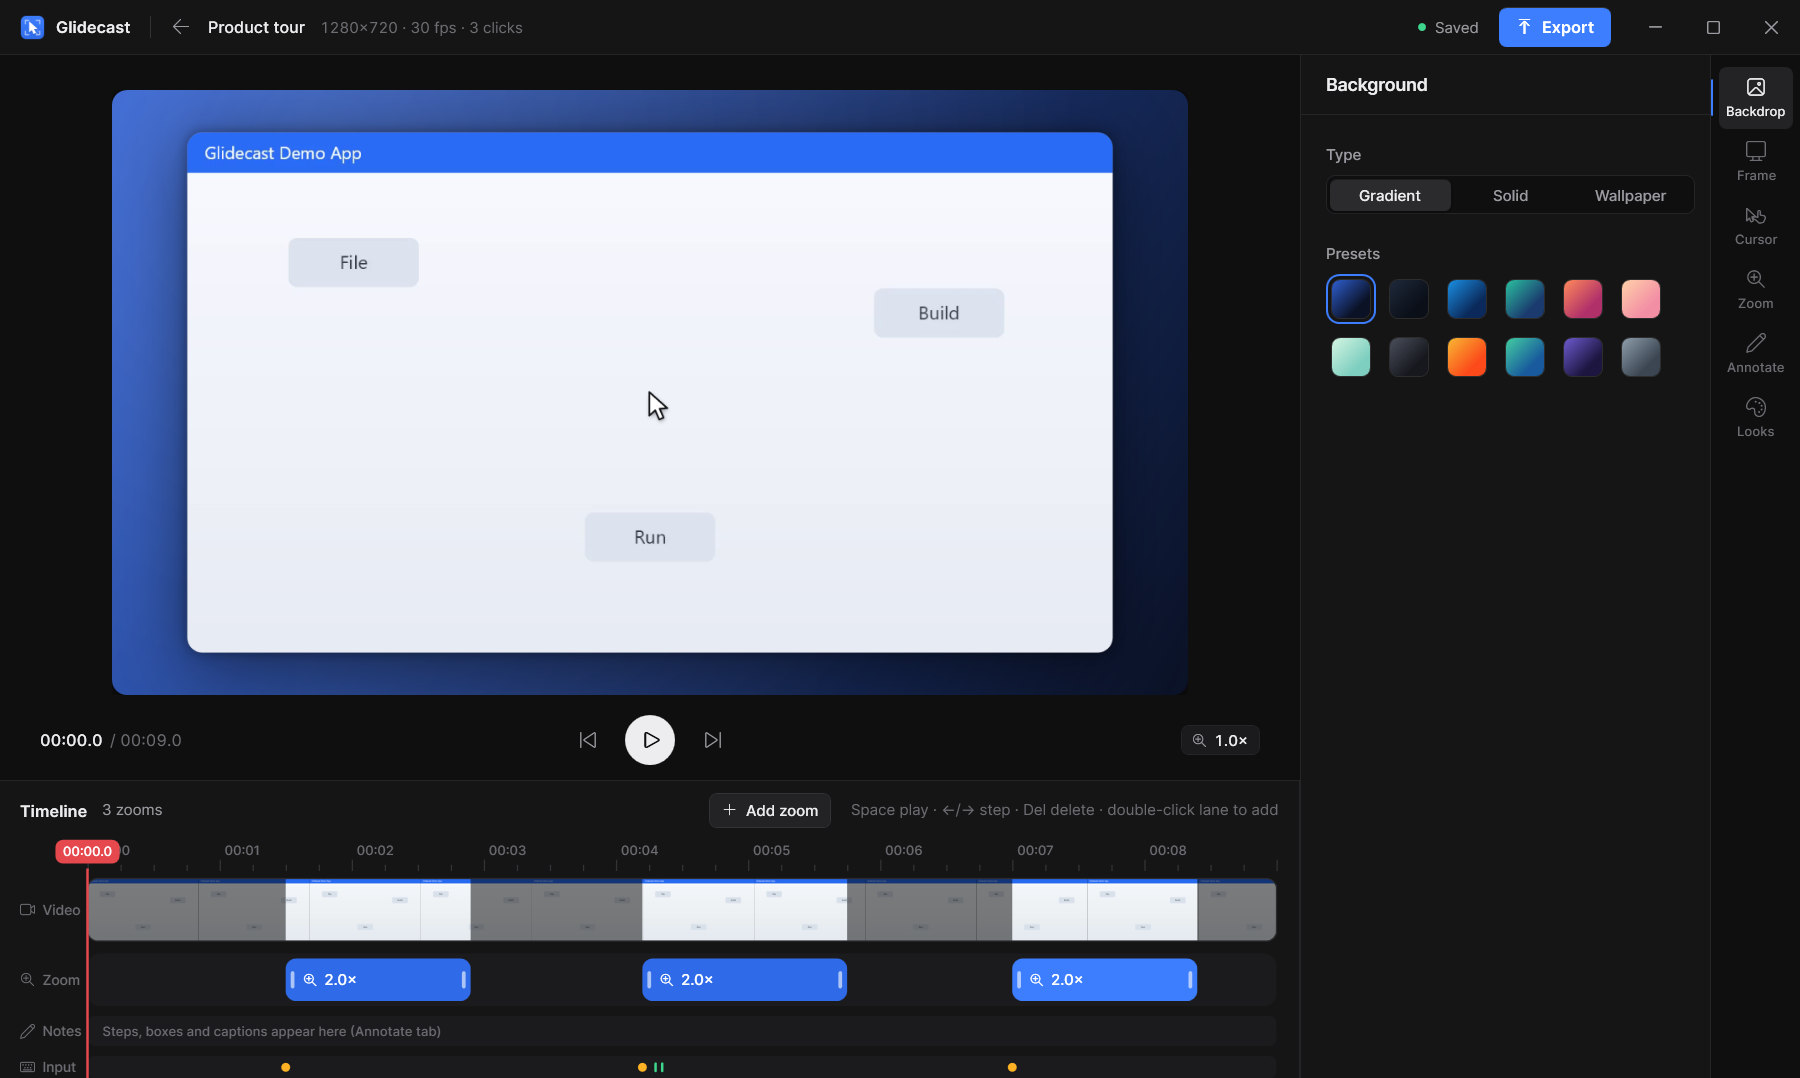
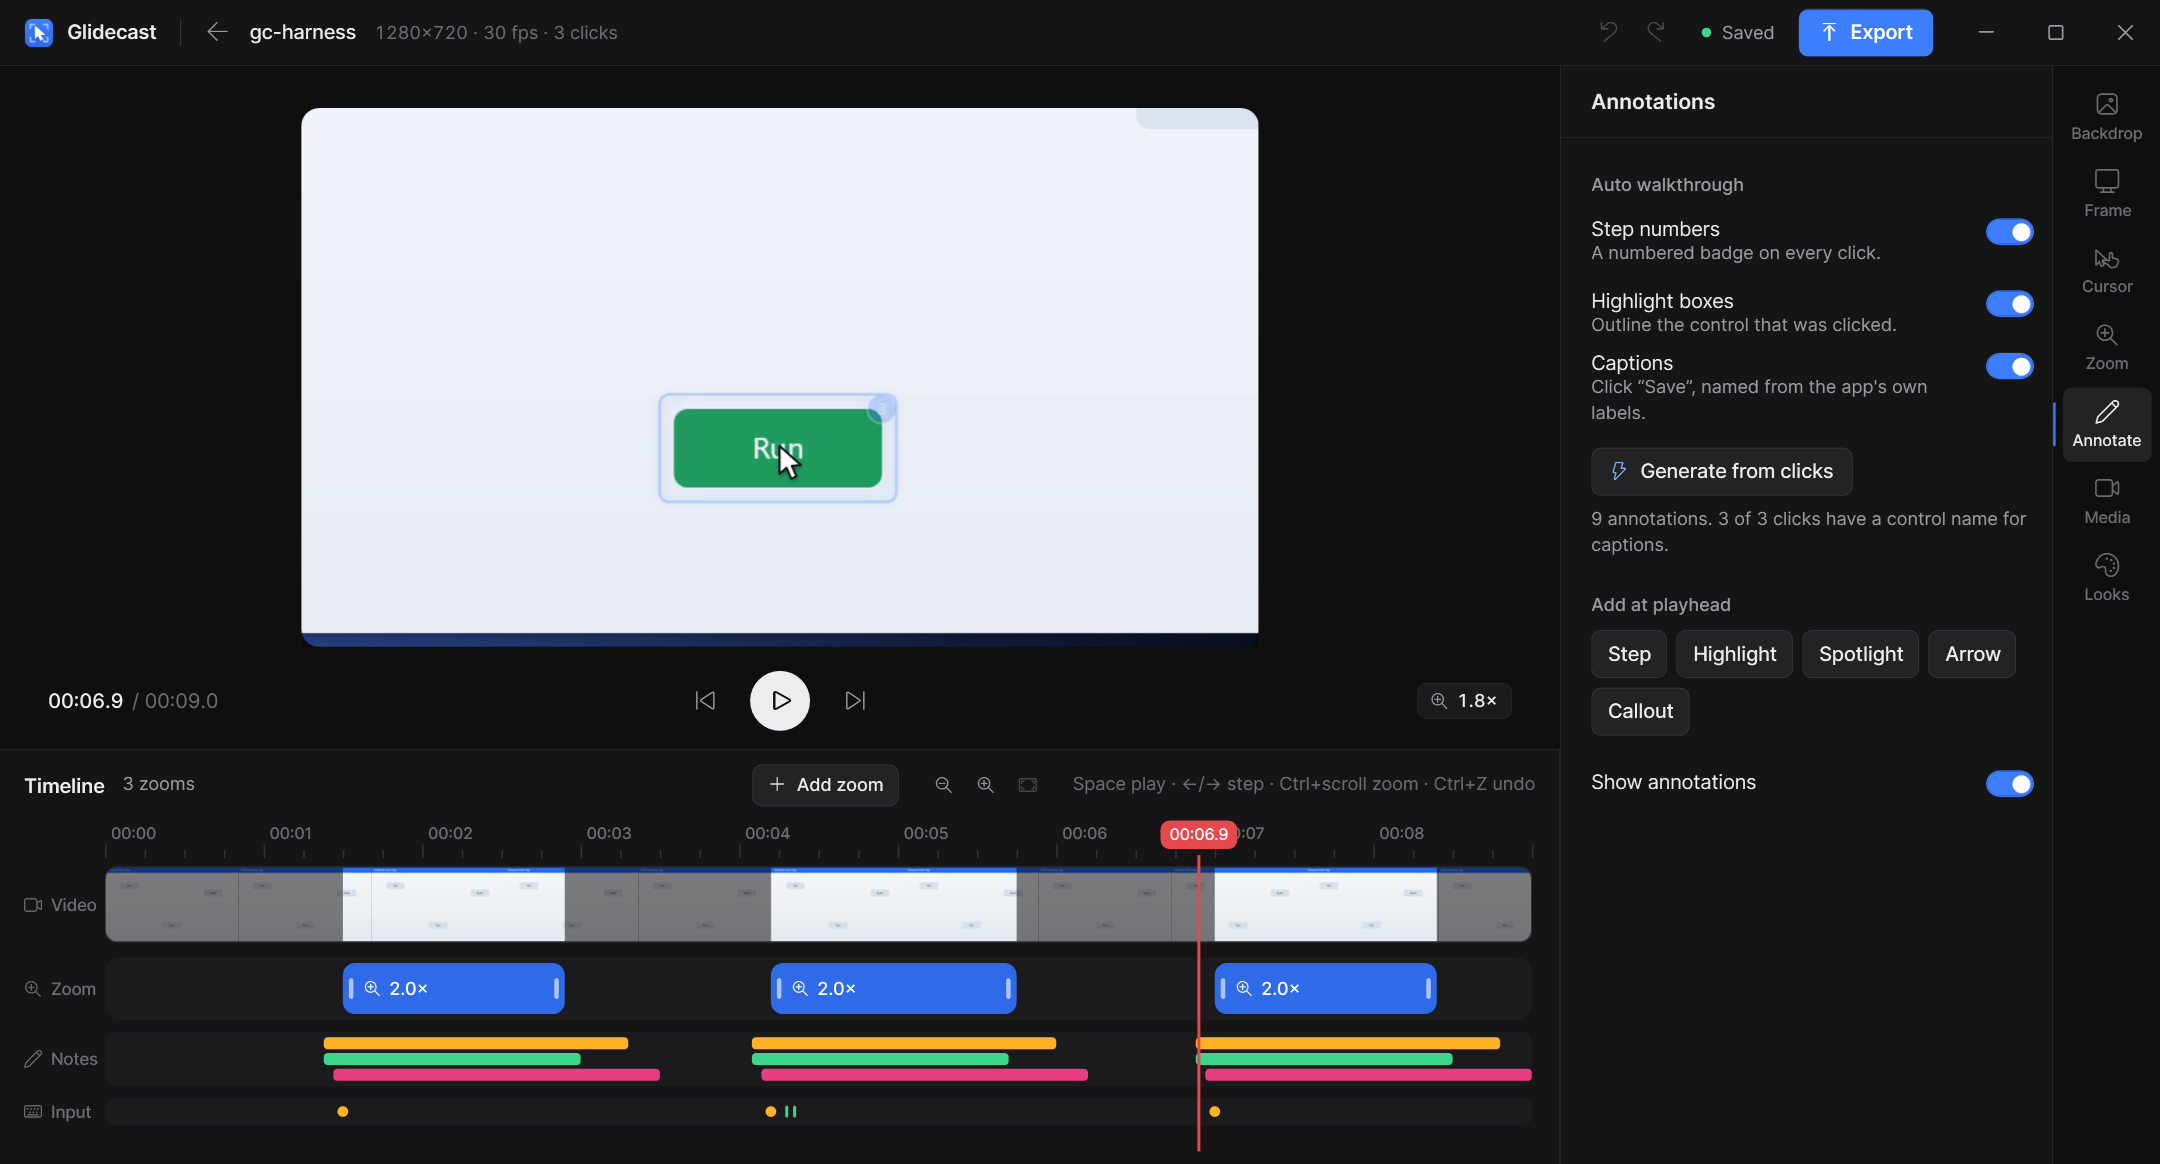
Update checker: fall back to github.com when the API is rate limited; new README screenshots
GitHub's API allows 60 anonymous requests an hour per address and answers 403
beyond that, which the app swallowed, so no update was offered. The check now
falls back to the releases/latest redirect and the predictable asset URLs.

README: new launcher, get-ready bar and editor screenshots.

diff --git a/src/Glidecast/Services/UpdateService.cs b/src/Glidecast/Services/UpdateService.cs
@@ -66,15 +66,57 @@ public static class UpdateService
     public static async Task<Release?> CheckAsync(CancellationToken ct = default)
     {
         if (Environment.GetEnvironmentVariable("GLIDECAST_NO_UPDATE_CHECK") == "1") return null;
-        string url = Environment.GetEnvironmentVariable("GLIDECAST_UPDATE_URL") is { Length: > 0 } u
-            ? u : $"https://api.github.com/repos/{Repo}/releases/latest";
-        string json = url.StartsWith("http", StringComparison.OrdinalIgnoreCase)
-            ? await Http.GetStringAsync(url, ct)
-            : await File.ReadAllTextAsync(url, ct);
-        var r = Parse(json);
+        string? custom = Environment.GetEnvironmentVariable("GLIDECAST_UPDATE_URL");
+        Release? r;
+        if (custom is { Length: > 0 })
+        {
+            r = Parse(custom.StartsWith("http", StringComparison.OrdinalIgnoreCase)
+                ? await Http.GetStringAsync(custom, ct) : await File.ReadAllTextAsync(custom, ct));
+        }
+        else
+        {
+            try
+            {
+                r = Parse(await Http.GetStringAsync($"https://api.github.com/repos/{Repo}/releases/latest", ct));
+            }
+            catch (HttpRequestException)
+            {
+                // GitHub's API allows only 60 anonymous requests an hour per
+                // address (shared offices and VPNs use it up) and answers 403.
+                // The web pages have no such limit, so read the release from those.
+                r = await LatestFromWebAsync(ct);
+            }
+        }
         if (r == null || r.Version <= Current) return null;
         if (string.Equals(SkippedVersion, r.Version.ToString(3), StringComparison.Ordinal)) return null;
         return r;
+    }
+
+    // Never follows redirects: the redirect target is the answer.
+    private static readonly HttpClient WebHttp = CreateWebClient();
+
+    private static HttpClient CreateWebClient()
+    {
+        var h = new HttpClient(new HttpClientHandler { AllowAutoRedirect = false }) { Timeout = TimeSpan.FromSeconds(30) };
+        h.DefaultRequestHeaders.UserAgent.ParseAdd($"Glidecast/{Current.ToString(3)}");
+        return h;
+    }
+
+    /// <summary>The latest release without the API: github.com/OWNER/REPO/releases/latest
+    /// redirects to the newest tag, and our assets have predictable names.</summary>
+    private static async Task<Release?> LatestFromWebAsync(CancellationToken ct)
+    {
+        using var resp = await WebHttp.GetAsync($"https://github.com/{Repo}/releases/latest", ct);
+        string? loc = resp.Headers.Location?.ToString();
+        if (loc == null || !loc.Contains("/releases/tag/")) return null;
+        string tag = Uri.UnescapeDataString(loc[(loc.LastIndexOf('/') + 1)..]);
+        if (!Version.TryParse(tag.TrimStart('v', 'V'), out var v)) return null;
+        v = new Version(v.Major, v.Minor, Math.Max(0, v.Build));
+        string ver = v.ToString(3), dl = $"https://github.com/{Repo}/releases/download/{tag}/";
+        return new Release(v, tag, "", $"https://github.com/{Repo}/releases/tag/{tag}",
+            dl + $"Glidecast-Setup-{ver}-x64.exe", $"Glidecast-Setup-{ver}-x64.exe",
+            dl + $"Glidecast-{ver}-win-x64-portable.zip", $"Glidecast-{ver}-win-x64-portable.zip",
+            dl + "SHA256SUMS.txt");
     }
 
     private static Release? Parse(string json)

diff --git a/README.md b/README.md
@@ -109,8 +109,17 @@ blocks that folder, Glidecast uses `%LOCALAPPDATA%\Glidecast\Recordings`
 instead. Each project is a folder containing `source.mp4` and a readable
 `project.json`.
 
+The launcher, and the get-ready bar that appears once you have picked what to
+record (the area is outlined on screen and your camera floats where it will
+appear in the video):
+
 <p align="center">
-  <img src="docs/media/home.png" alt="Home screen" width="49%" />
+  <img src="docs/media/home.png" alt="The launcher: full screen, custom area or window, plus camera, microphone and system sound" width="88%" />
+</p>
+<p align="center">
+  <img src="docs/media/prepare.png" alt="The get-ready bar: inputs, countdown, frame rate and Start" width="100%" />
+</p>
+<p align="center">
   <img src="docs/media/cursor.png" alt="Cursor settings" width="49%" />
 </p>
 
